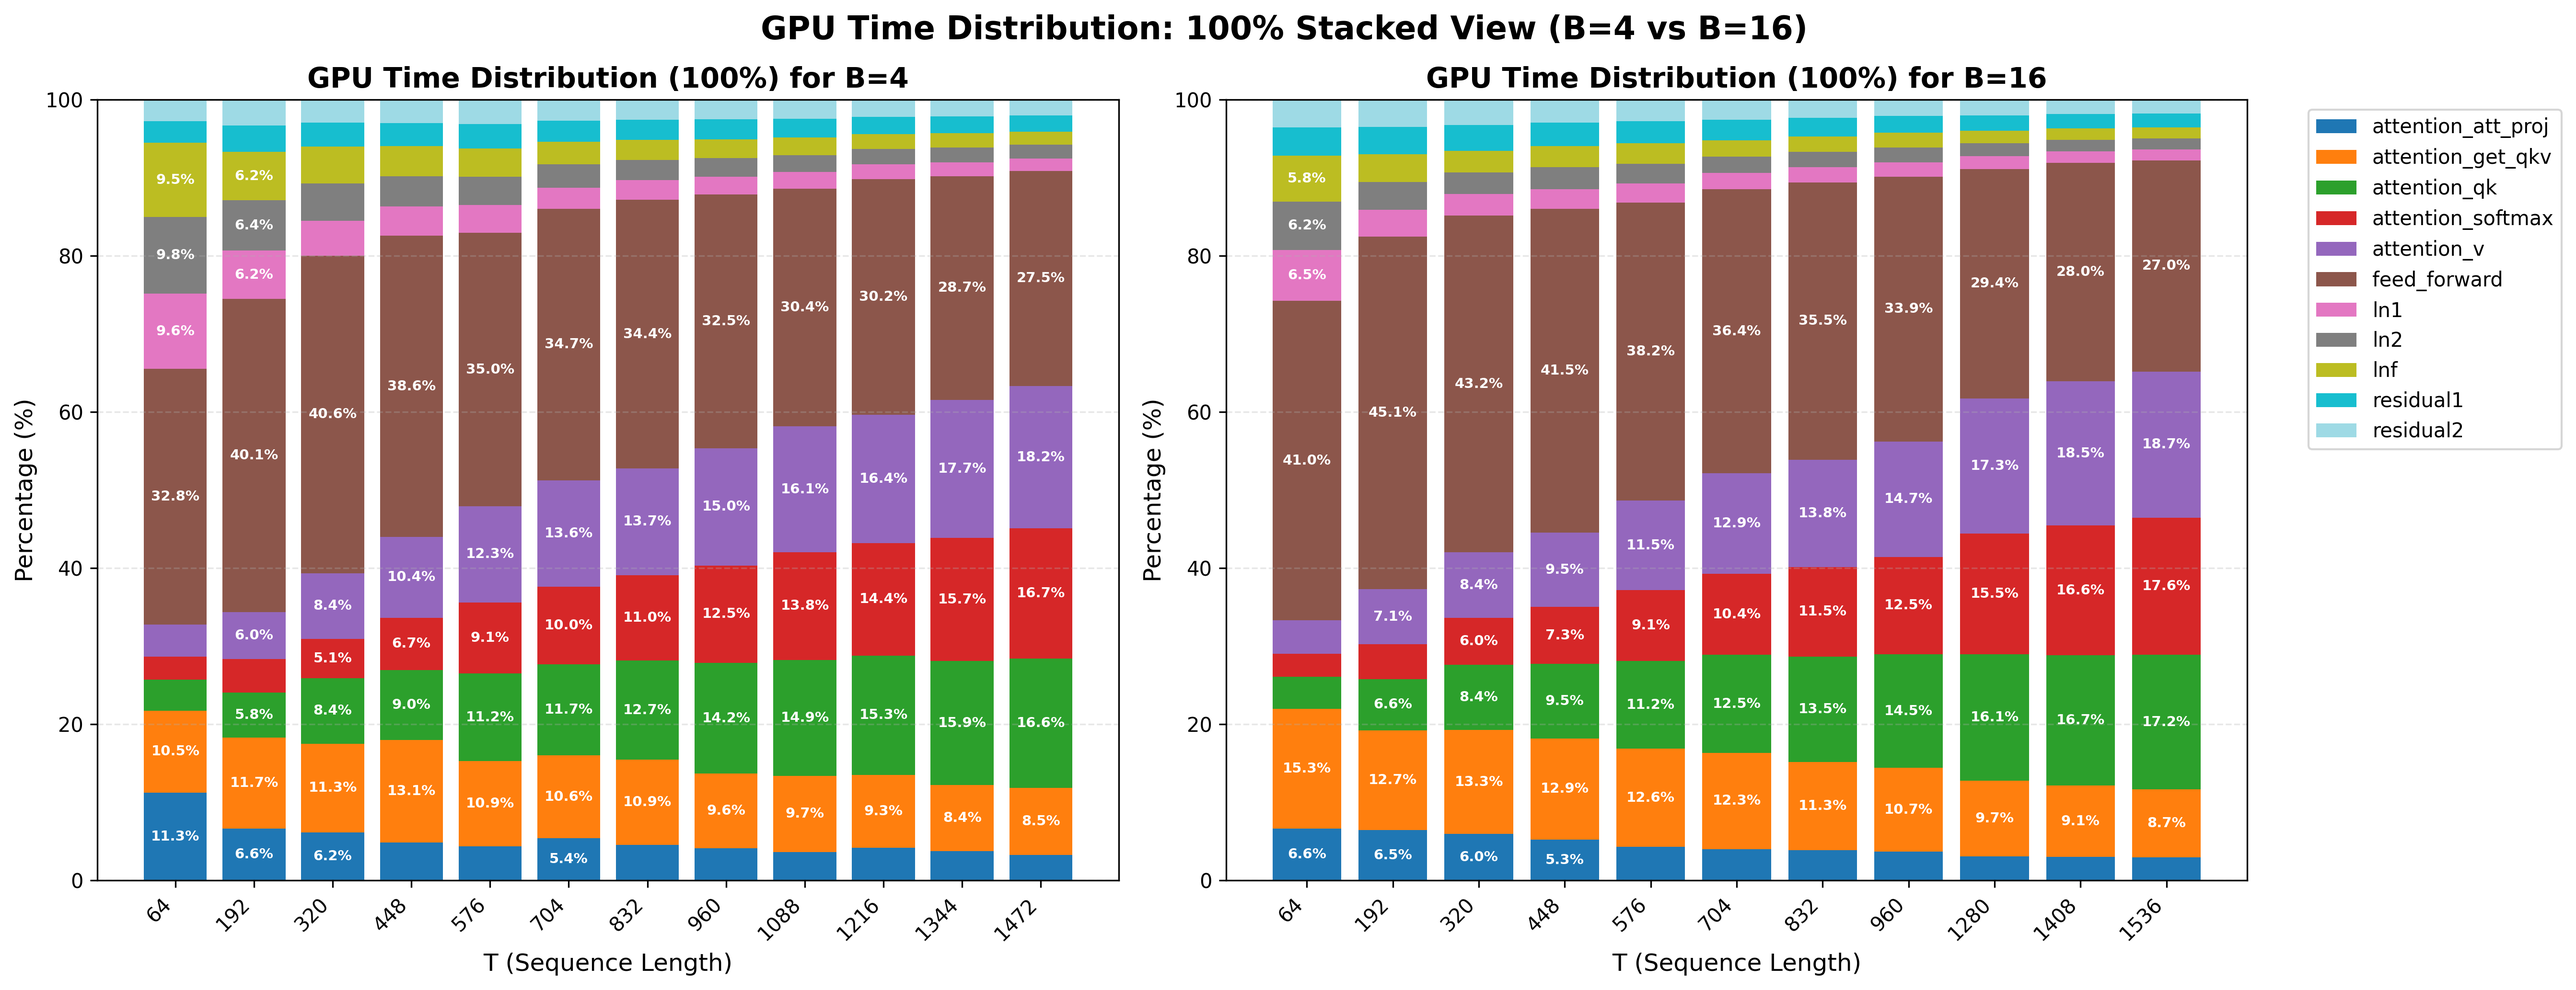
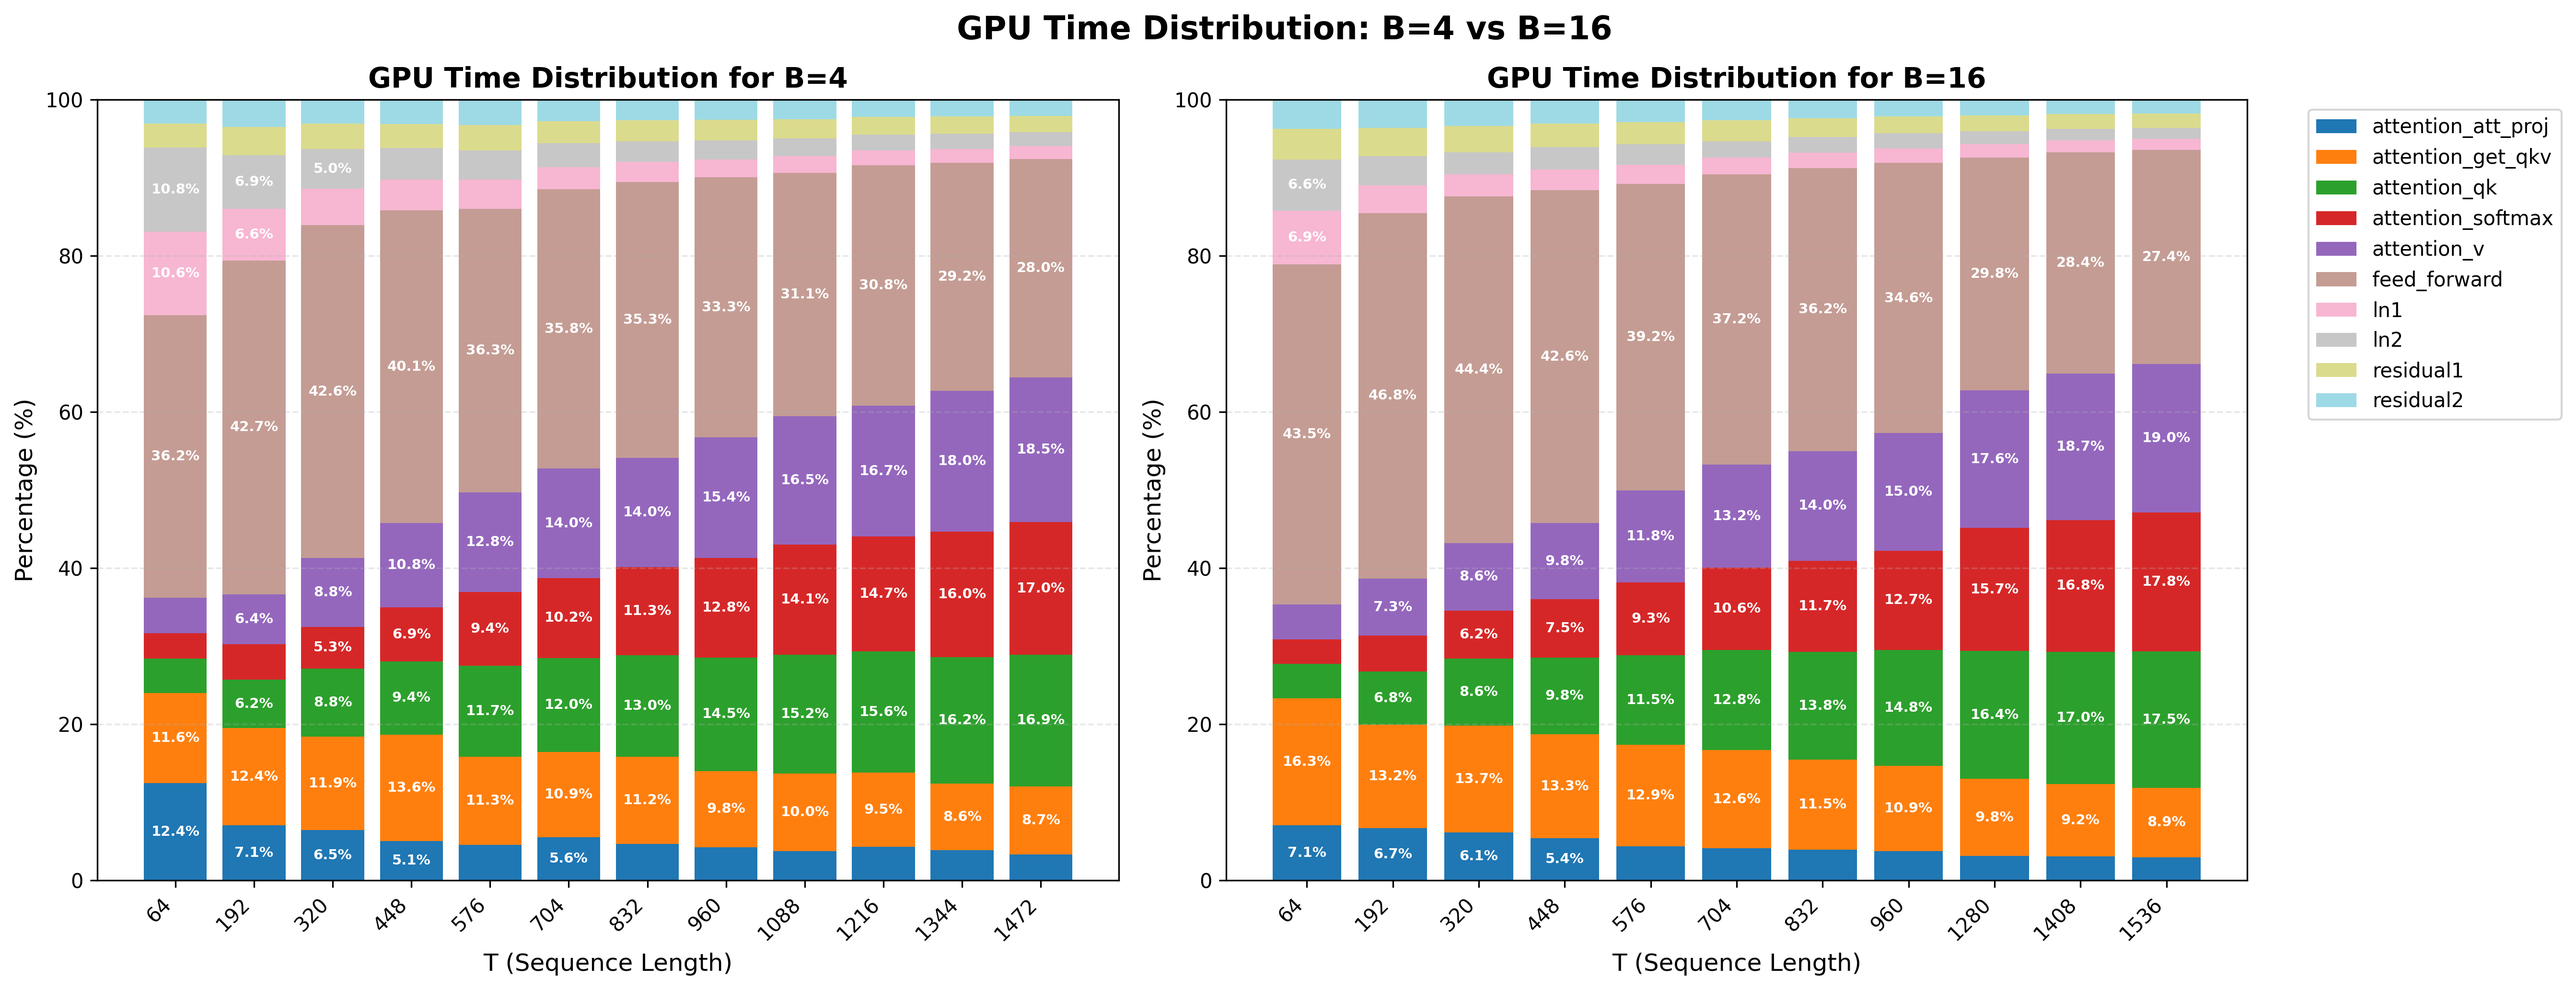
Add new GPU and wall clock time charts for LLM training performance analysis

diff --git a/src/content/posts/scaling_performance_of_llm_training/scaling_performance_of_llm_training.md b/src/content/posts/scaling_performance_of_llm_training/scaling_performance_of_llm_training.md
@@ -15,7 +15,7 @@ Some Context.
 In this post, we will present how LLM performance scales with increasing batch size(B), context length(T) and Head Count(H). The potential bottleneck of each block will also be discussed, comparing against the theotical roofline from the previous post here. 
 
 # Setup
-We tested on one layer of the transformer, deviding it into multiple blocks for nuanced breakdown of the performance. For each block, we varied three parameters:
+We test on the second layer of the transformer, deviding it into multiple blocks for nuanced breakdown of the performance. For each block, we vary three parameters:
 
 | Parameter | Description| Values |
 |-----------|------------|--------|
@@ -23,10 +23,49 @@ We tested on one layer of the transformer, deviding it into multiple blocks for 
 | T | context length | from 64 to 1536 with interval of 64 |
 | H | number of heads in attention block | 4, 8, 12, 16, 32 |
 
+Unless explicitly stated, we use H=12 by default.
 
+Due to small dataset, only a subset of the whole combinations of B, T can be tested, with less T for higher B. If we keep increasing B, only handful T can be run, which is insufficient to compare against B=4 and B=16. Therefore, only 2 Bs are chosen to compare with each other.  
 
 # GPU Time
+## Varing T
 ![gpu_time_100%_stacked_chart](gpu_time_100%25_stacked_chart.png)
+![gpu_time_abs_stacked_chart_b=4](gpu_time_abs_stacked_chart_b=4.png)
+![gpu_time_abs_stacked_chart_b=16](gpu_time_abs_stacked_chart_b=16.png)
+We first look at the GPU execution time. They are displayed in the distribution plot above, scaling with T. With $T=64$, feed_forward and attention(accumulated from all the sub-ranges) dominate the GPU usage, collectively takes 72.4% in B=4 and 78.8% in B=16. This dominance persist when T increases in both scanrioes. The distribution of attention and feed_forward raised to 92.4% and 93.5% respectively with T raised to ~1.5k. This behaviour suggests that when improving the performance of transformer, probably we should pinpoint on the attention and feed_forward to maxmimize the overall system performance improvement. Therefore we will only focus on these big ranges in this post for brevity.
+
+Further focusing on the attention and feed_forward by deviding the attention into multiple stages, we find that attention_qk, attention_softmax and attention_v scale much faster than other attention ranges and feed_forward. Collectively they raised from 12.2% to 52.4% of the total GPU time with B=4 and from 12.1% to 54.3% of the total GPU time with B=16. Individually, they raised from 4.4%, 3.2% and 4.5% to 16.8%, 16.9%, 18.5% with B=4 and from 4.4%, 3.1% and 4.5% to 17.5%, 17.8%, 19% with B=16. In contrast, feed_forward shirnks significantly from 36.2% to 28% and 43.5% and 27.4% on B=4 and B=64.
+
+The reason for the distribution shift lies on the characteristics of these ranges. Here is a summary table of roofline analysis from the previous post:
+
+| SUB BLOCKS | NUM ELEMENTS ACTIVATION | Total OPs | Bound |
+|------------|--------------|-----------|-------|
+|Q, K, V | $B * T * 3C$ |$6 * B * T * C^2$| Compute |
+|SoftMAX($QK^T$) | $B * NH * T^2$ | $2 * B * T^2 * C + 3 * B * NH * T^2$| QK Compute, Softmax Memory|
+|V Matmul | x | $2 * B * T^2 * C$|  Compute |
+|O | $B * T * C$ | $2 * B * T * C^2$| Compute |
+|MLP1 | $B * T * 4C$ | $8 * B * T * C^2$| Compute |
+|MLP2 | $B * T * C$ |  $8 * B * T * C^2$| Compute |
+
+Most of the mentioned time-consuming ranges are compute-bound and the total FLOPS scales quadratically with T, indicating the GPU time should be $O(T^2)$. The only memory-bound range, attention_softmax, still has $T^2$ activations to write to, meaning that in theory, the GPU time of attention_softmax should still be $O(T^2)$. This is why we see similar growth on attention_qk, attention_softmax and attention_v. On the other hand, layer norm and residual block are memory-bound, and their activations and the input matrices only scales linearly with $T$, leading to $O(n)$ GPU time. 
+
+## Varing NH
+![nh_scaling_comparison](nh_scaling_comparison.png)
+The above chart shows how the GPU time scales with NH. Other than the attention_qk with B=4 and T=64, other ranges scales linearly with NH. The reason why attention_qk doesn't scale with NH on small B and T is probably because it underutilizes the GPU due to the lack of grid and block size. After testing, we found the grid size and block size of the kernels are as below:
+
+| NH | Grid Configuration | Block Configuration |
+|----|-------------------|---------------------|
+| 4  | <<<1, 1, 16>>>   | <<<128, 1, 1>>>    |
+| 8  | <<<1, 1, 32>>>   | <<<128, 1, 1>>>    |
+| 12 | <<<1, 1, 48>>>   | <<<128, 1, 1>>>    |
+| 16 | <<<1, 1, 64>>>   | <<<128, 1, 1>>>    |
+| 32 | <<<1, 1, 128>>>  | <<<128, 1, 1>>>    |
+
+Given A100's 108 SM and 64 Warps per SM in maximum, obviously the GPU is heavily underutilized, so increasing NH only raises the amount of threads executed concurrently on GPU, but doesn't increase the GPU time.
 
 # Wall Clock Time
-![wallclock_time_100%_stacked_chart](wallclock_time_100%25_stacked_chart.png)
+![wall_clock_time_100%_stacked_chart](wall_clock_time_100%25_stacked_chart.png)
+![wall_clock_time_abs_stacked_chart_b=4](wall_clock_time_abs_stacked_chart_b=4.png)
+![wall_clock_time_abs_stacked_chart_b=16](wall_clock_time_abs_stacked_chart_b=16.png)
+In terms of wall clock time, the distriubtion shows a similar trend compared to the GPU execution time: due to $O(T^2)$ FLOPS and $O(T^2)$ loads/stores, attention_qk, attention_softmax, attention_v and feed_forward still dominate the wall clock time. An interesting point is that the feed_forward doesn't consume much wall clock time with smaller B and T despite of more kernel calls than other ranges, which can increases tens of microseconds of launch overhead. With $B=4$, $T=64$, the feed_forward wall clock time drops from 36.2% to 24.3%, and with $B=16$, $T=64$ it drops from 43.5% to 31.8% comparing the gpu time and wall clock time. However, this discrepancy quickly shrinks with increasing T, and eventually there is only minor difference between the two time metrics.
+
